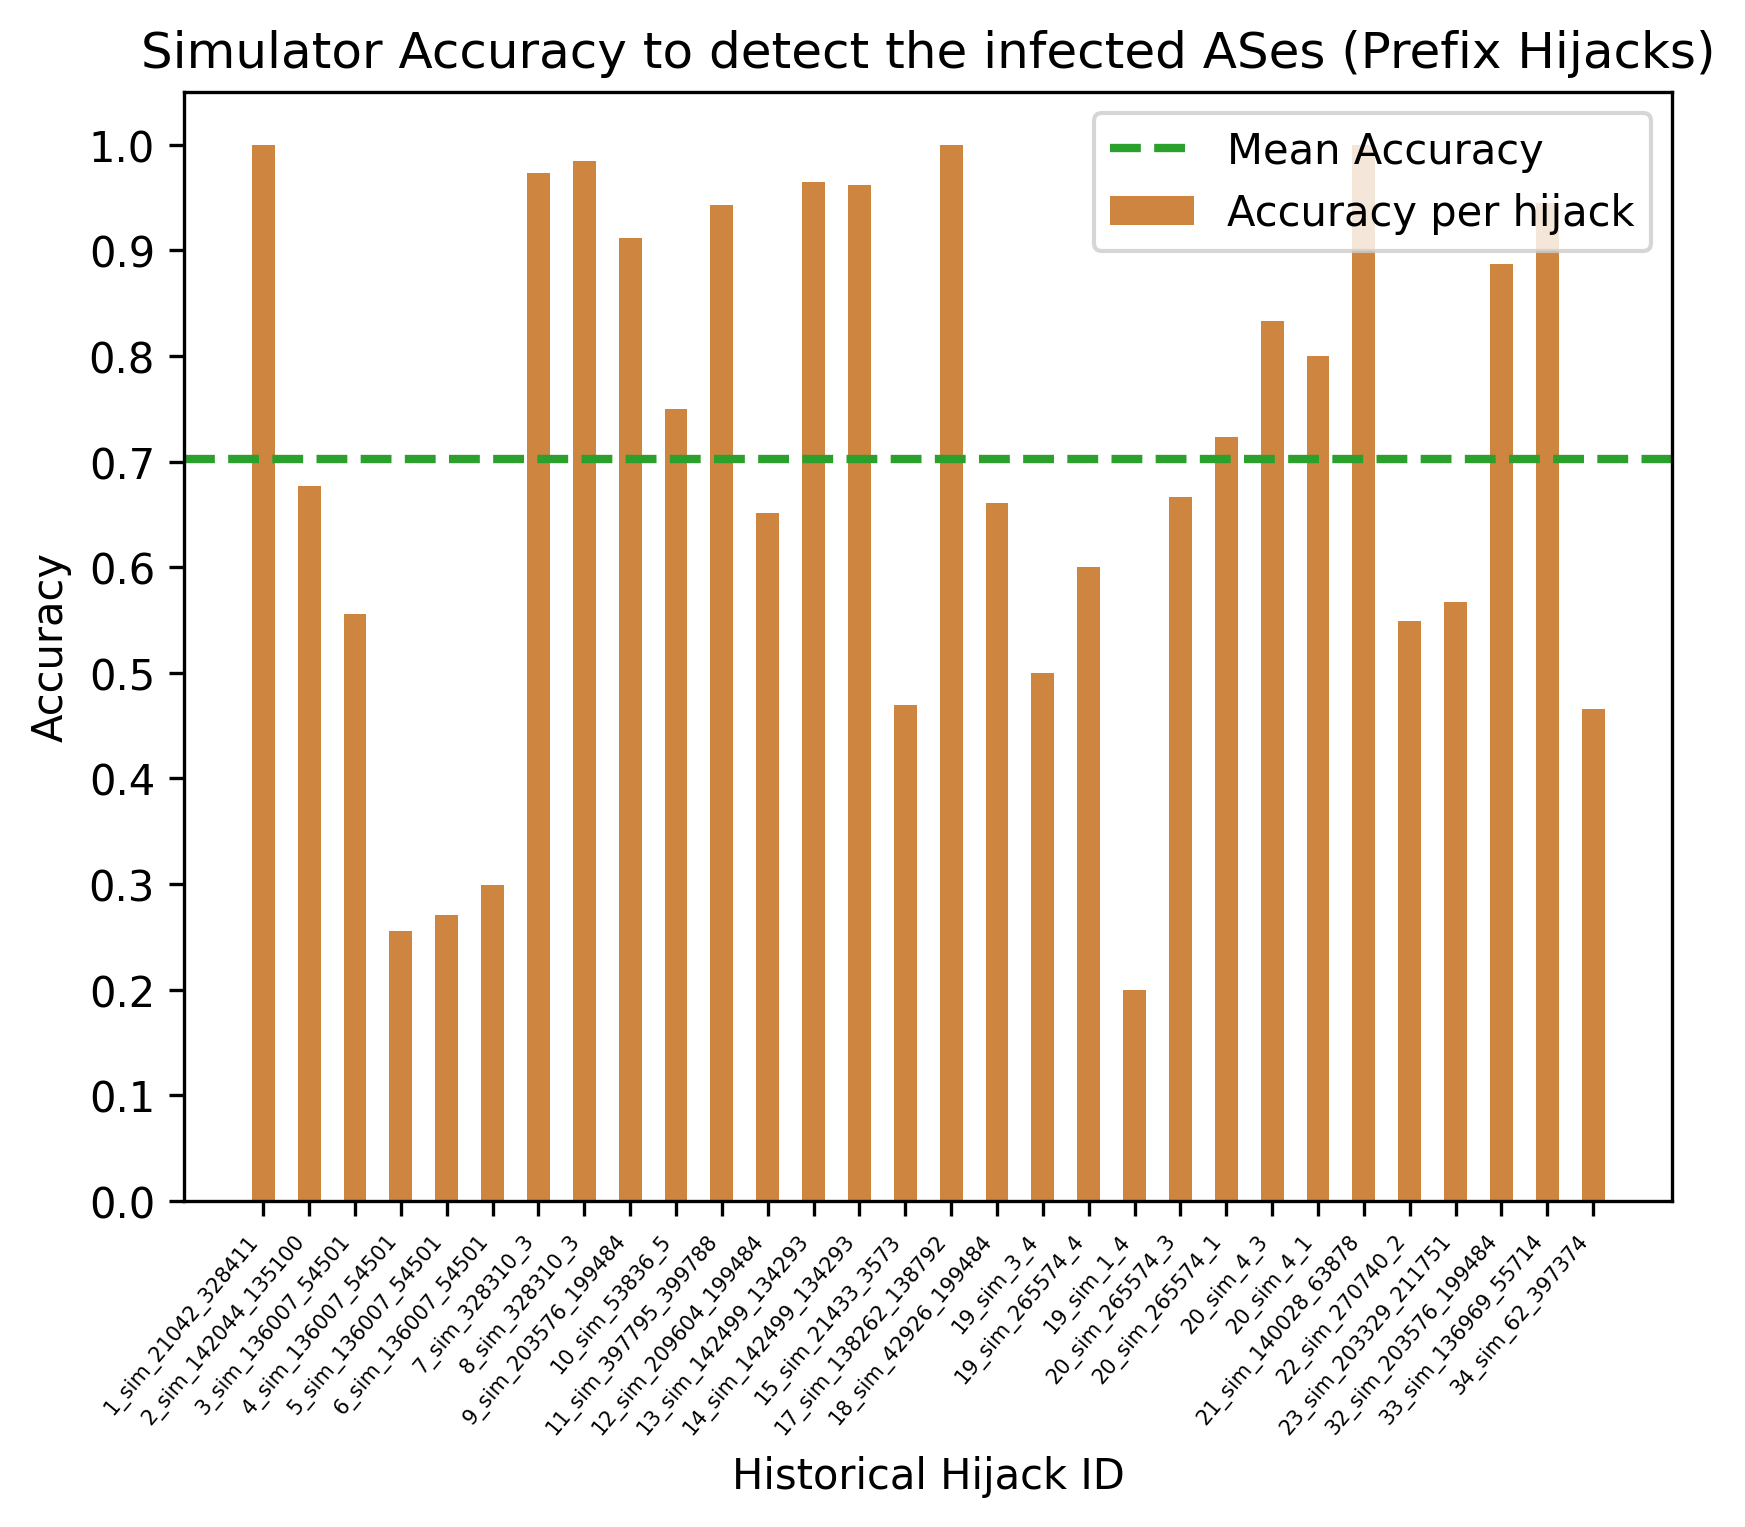
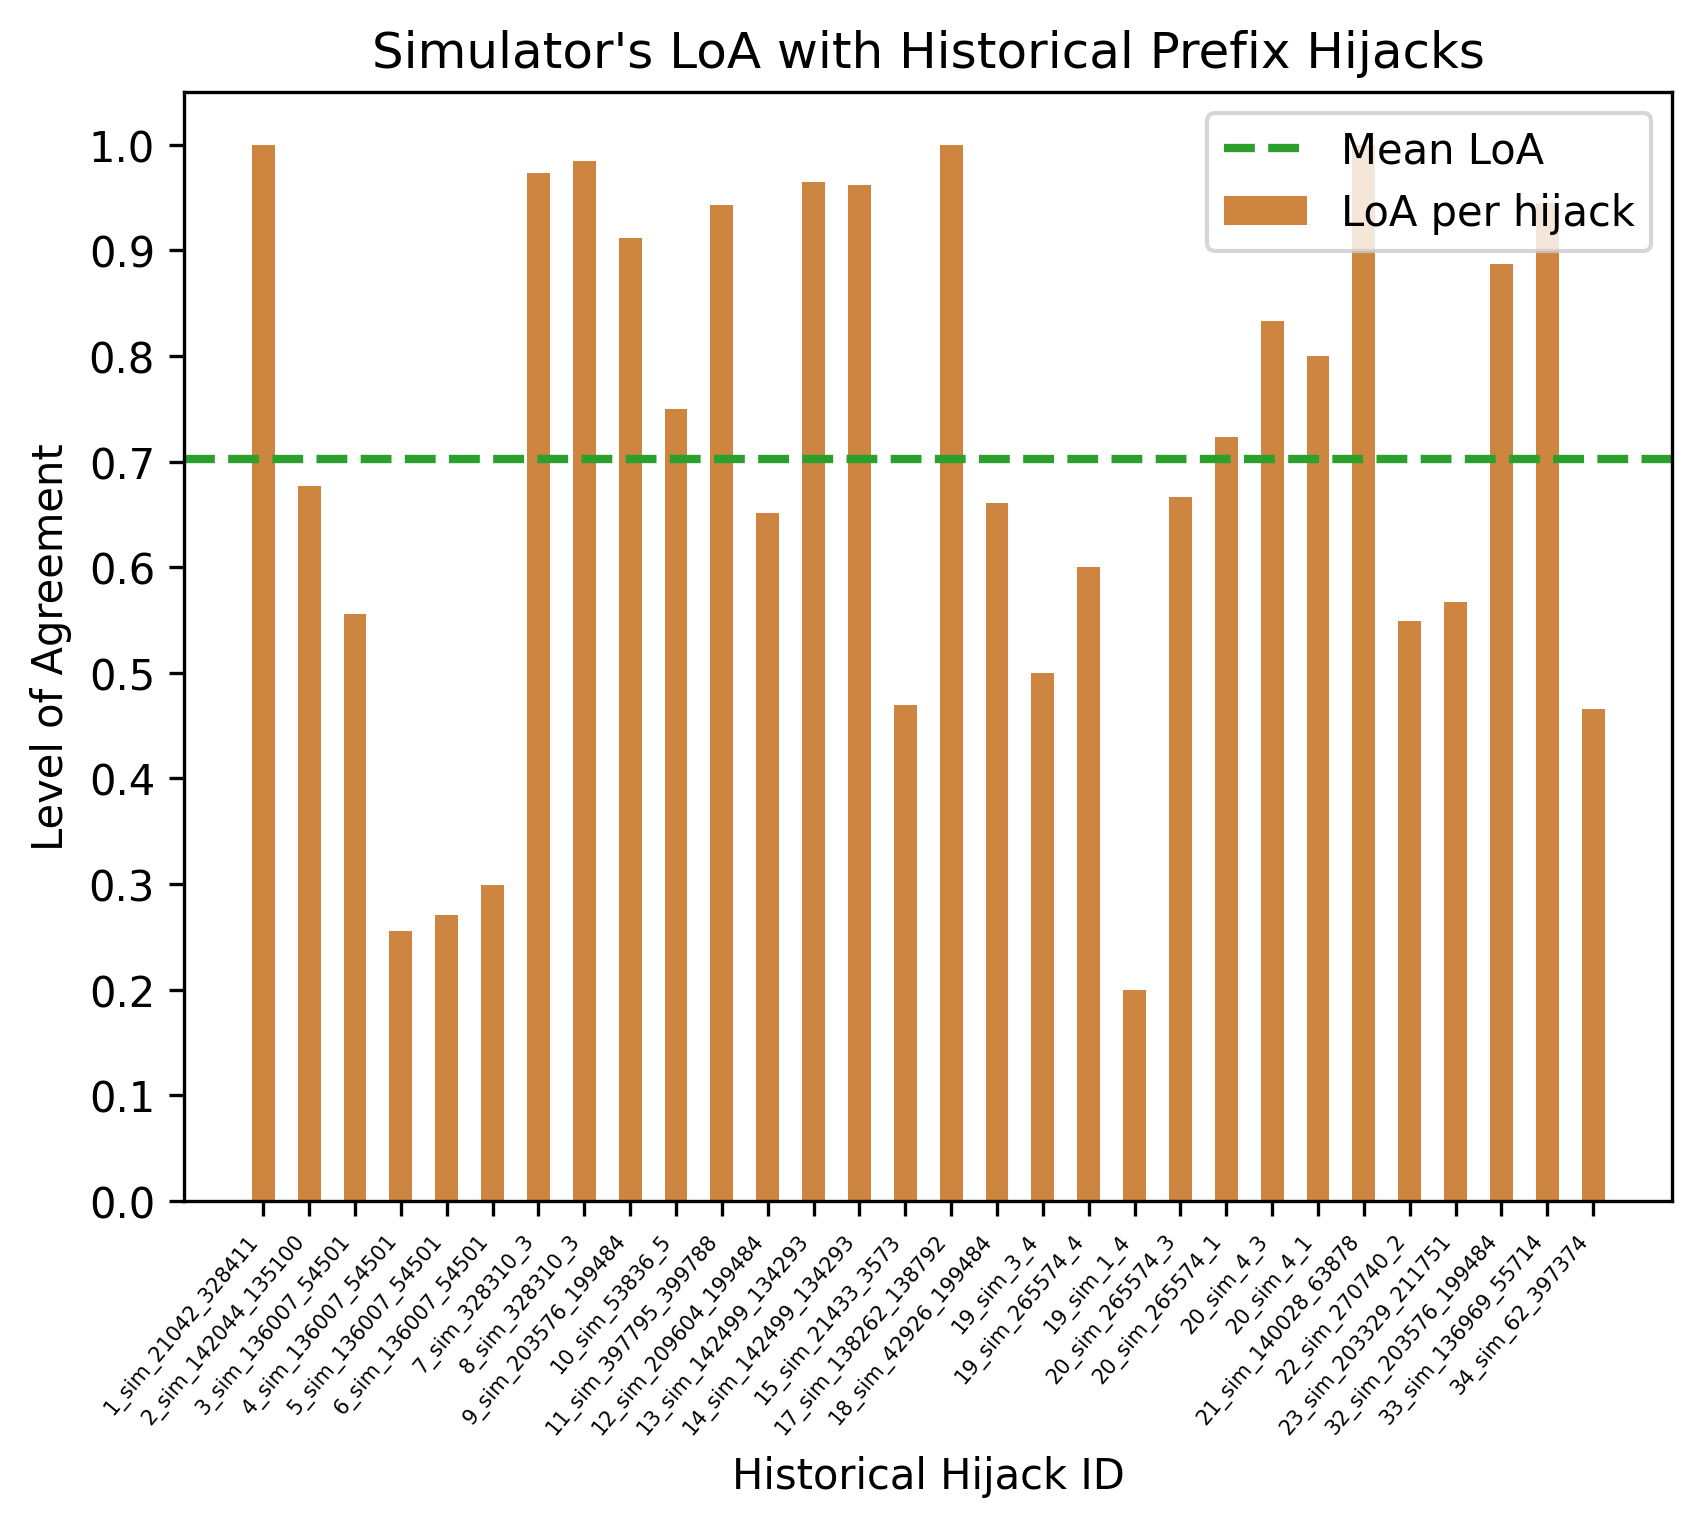
We change the term "Accuracy" to "Level of Agreement" in the figures.

diff --git a/evaluation/generate_figures.py b/evaluation/generate_figures.py
@@ -135,17 +135,17 @@ def plot_simulator_average_accuracy_prefix_hijacks(accuracy_results):
     avg_accuracy_value = y1.pop()
 
     plt.figure(5)
-    plt.bar(x1, y1, linestyle='solid', width=0.5, color='peru', label="Accuracy per hijack")
+    plt.bar(x1, y1, linestyle='solid', width=0.5, color='peru', label="LoA per hijack")
     plt.xticks(x1, rotation=50, fontsize=5, ha='right')
     plt.yticks([v * 0.1 for v in range(0, 11, 1)])
 
-    plt.axhline(y=avg_accuracy_value, linestyle='dashed', linewidth=2, color='tab:green', label='Mean Accuracy')
+    plt.axhline(y=avg_accuracy_value, linestyle='dashed', linewidth=2, color='tab:green', label='Mean LoA')
 
     plt.xlabel('Historical Hijack ID')
     # Set the y axis label of the current axis.
-    plt.ylabel('Accuracy')
+    plt.ylabel('Level of Agreement')
     # Set a title of the current axes.
-    plt.title('Simulator Accuracy to detect the infected ASes (Prefix Hijacks)')
+    plt.title("Simulator's LoA with Historical Prefix Hijacks")
     # show a legend on the plot
     plt.legend()
     # save figure
@@ -159,17 +159,17 @@ def plot_simulator_average_accuracy_subprefix_hijacks(accuracy_results):
     avg_accuracy_value = y1.pop()
 
     plt.figure(6)
-    plt.bar(x1, y1, linestyle='solid', width=0.3, color='coral', label="Accuracy per hijack")
+    plt.bar(x1, y1, linestyle='solid', width=0.3, color='coral', label="LoA per hijack")
     plt.xticks(x1, rotation=50, fontsize=5, ha='right')
     plt.yticks([v * 0.1 for v in range(0, 11, 1)])
 
-    plt.axhline(y=avg_accuracy_value, linestyle='dashed', linewidth=2, color='tab:green', label='Mean Accuracy')
+    plt.axhline(y=avg_accuracy_value, linestyle='dashed', linewidth=2, color='tab:green', label='Mean LoA')
 
     plt.xlabel('Historical Hijack ID')
     # Set the y axis label of the current axis.
-    plt.ylabel('Accuracy')
+    plt.ylabel('Level of Agreement')
     # Set a title of the current axes.
-    plt.title('Simulator Accuracy to detect the infected ASes (Subprefix Hijacks)')
+    plt.title("Simulator's LoA with Historical Sub-Prefix Hijacks")
     # show a legend on the plot
     plt.legend(loc='lower right')
     # save figure
